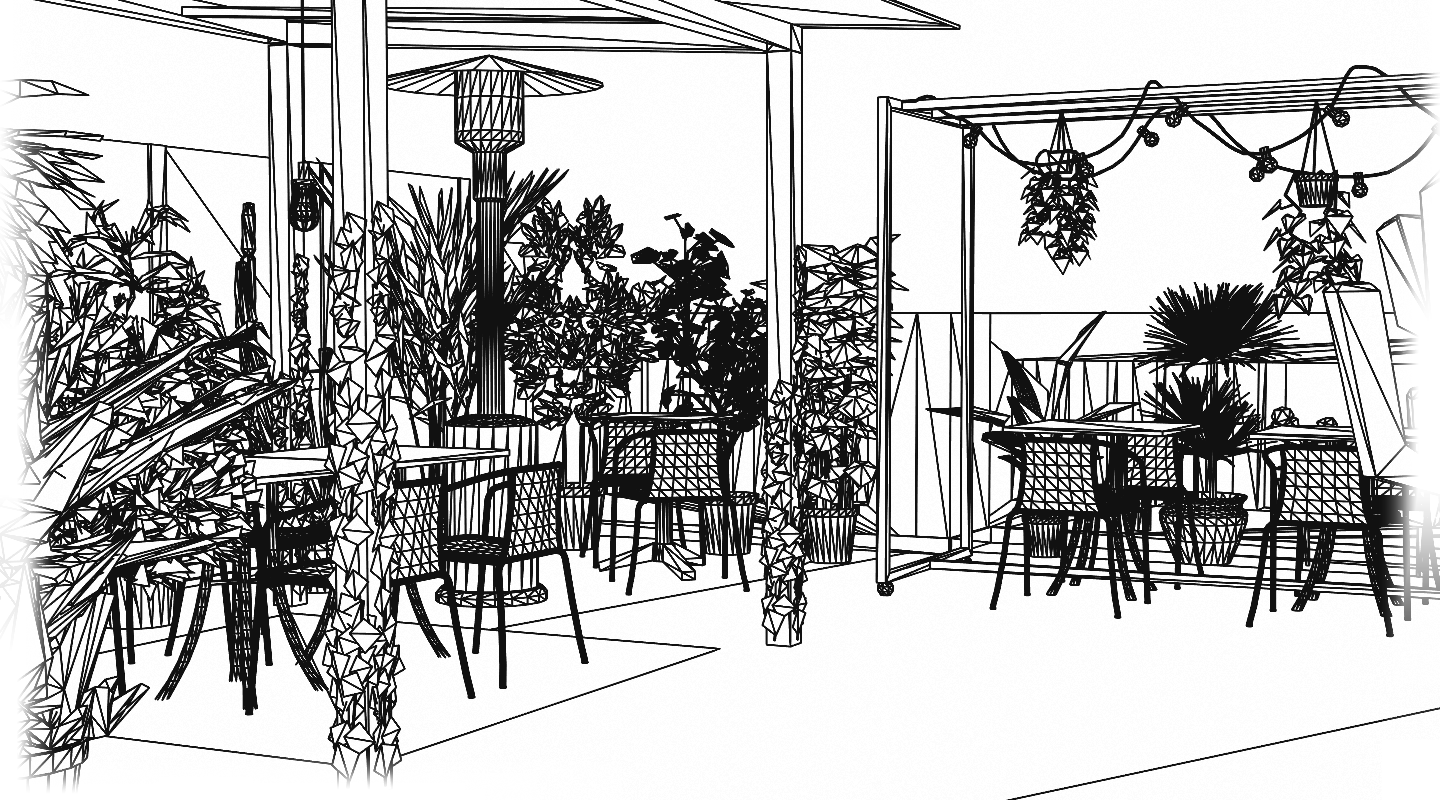
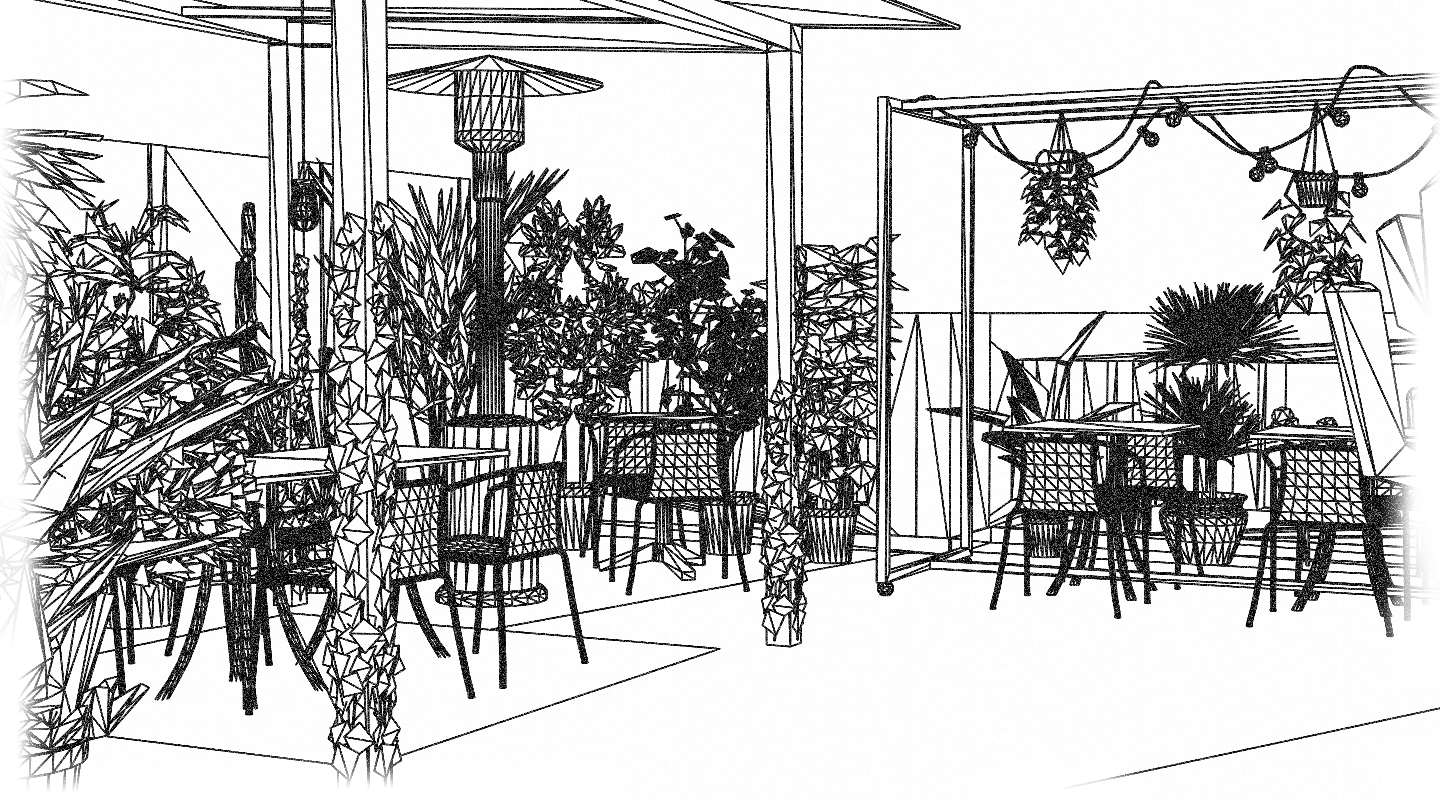
noise scetches, cart cont

diff --git a/src/mainScreens/Carta.jsx b/src/mainScreens/Carta.jsx
@@ -1,23 +1,40 @@
 import { useState, useEffect, useRef } from 'react'
 import { collection, getDocs } from 'firebase/firestore'
 import { db } from '../firebase'
-
-async function fetchMenuCollection(collectionName) {
-    const snapshot = await getDocs(collection(db, collectionName))
-    const plates = snapshot.docs.map(doc => doc.data())
-    plates.forEach((document) => {
-        console.log(document.nombre)
-    })
-}
+import MenuCarousel from '../custom/MenuCarousel'
 
 function Carta({ activateLink }) {
     const mainSection = useRef()
     const scetchSection = useRef()
 
+    const [collectionName, setCollectionName] = useState(
+        'menu/01.platos/platos'
+    )
+    const [activeCategory, setActiveCategory] = useState('platos')
+    const [menuCollection, setMenuCollection] = useState([])
+    const [fetchingMenuCollection, setFetchingMenuCollection] = useState(true)
+    const [vinosVisible, setVinosVisible] = useState(false)
+    const [menuReady, setMenuReady] = useState(false)
+
+    const fetchMenuCollection = async () => {
+        setFetchingMenuCollection(true)
+        try {
+            const snapshot = await getDocs(collection(db, collectionName))
+            const plates = snapshot.docs.map((doc) => doc.data())
+            setMenuCollection(plates)
+        } catch (error) {
+            console.log(error)
+        }
+        setFetchingMenuCollection(false)
+
+        // Temporal
+        menuCollection.forEach((document) => console.log(document.nombre))
+    }
+
     useEffect(() => {
         activateLink(2)
 
-        fetchMenuCollection('menu/061.postres/postres')
+        fetchMenuCollection()
 
         const reveal = function (entries, observer) {
             const [entry] = entries
@@ -45,6 +62,21 @@ function Carta({ activateLink }) {
         )
     }, [])
 
+    const activateCategory = (event) => {
+        const category = event.target.dataset.id
+        if (activateCategory === category) return
+
+        setActiveCategory(category)
+        if (category === 'vinos') {
+            setVinosVisible(true)
+        } else {
+            setVinosVisible(false)
+            const dbPath = event.target.dataset.dbPath
+            setCollectionName(dbPath)
+            fetchMenuCollection()
+        }
+    }
+
     return (
         <div className="main-carta">
             <section
@@ -57,57 +89,95 @@ function Carta({ activateLink }) {
                 <div className="categories-carousel">
                     <div className="menu-categories-container">
                         <div
-                            className="menu-category category active"
+                            className={`menu-category category ${
+                                activeCategory === 'platos' ? 'active' : ''
+                            }`}
+                            data-id="platos"
                             data-db-path="menu/01.platos/platos"
+                            onClick={activateCategory}
                         >
                             Platos
                         </div>
                         <div
-                            className="menu-category category"
+                            className={`menu-category category ${
+                                activeCategory === 'piqueos' ? 'active' : ''
+                            }`}
+                            data-id="piqueos"
                             data-db-path="menu/02.piqueos/piqueos"
+                            onClick={activateCategory}
                         >
                             Piqueos
                         </div>
                         <div
-                            className="menu-category category"
+                            className={`menu-category category ${
+                                activeCategory === 'vinos' ? 'active' : ''
+                            }`}
+                            data-id="vinos"
                             data-db-path="menu/03.vinos/vinos"
+                            onClick={activateCategory}
                         >
                             Vinos
                         </div>
                         <div
-                            className="menu-category category"
+                            className={`menu-category category ${
+                                activeCategory === 'cocteles' ? 'active' : ''
+                            }`}
+                            data-id="cocteles"
                             data-db-path="menu/04.cocteles/cocteles"
+                            onClick={activateCategory}
                         >
                             Cocteles
                         </div>
                         <div
-                            className="menu-category category"
+                            className={`menu-category category ${
+                                activeCategory === 'cervezas' ? 'active' : ''
+                            }`}
+                            data-id="cervezas"
                             data-db-path="menu/05.cervezas/cervezas"
+                            onClick={activateCategory}
                         >
                             Cervezas
                         </div>
                         <div
-                            className="menu-category category"
+                            className={`menu-category category ${
+                                activeCategory === 'bebidas calientes'
+                                    ? 'active'
+                                    : ''
+                            }`}
+                            data-id="bebidas calientes"
                             data-db-path="menu/06.bebidas calientes/bebidas calientes"
+                            onClick={activateCategory}
                         >
                             Bebidas calientes
                         </div>
                         <div
-                            className="menu-category category"
+                            className={`menu-category category ${
+                                activeCategory === 'postres' ? 'active' : ''
+                            }`}
+                            data-id="postres"
                             data-db-path="menu/061.postres/postres"
+                            onClick={activateCategory}
                         >
                             Postres
                         </div>
                         <div
-                            className="menu-category category"
+                            className={`menu-category category ${
+                                activeCategory === 'ofertas' ? 'active' : ''
+                            }`}
+                            data-id="ofertas"
                             data-db-path="menu/07.ofertas/ofertas"
+                            onClick={activateCategory}
                         >
                             Ofertas
                         </div>
                     </div>
                 </div>
 
-                <div className="vinos-container hidden">
+                <div
+                    className={`vinos-container ${
+                        vinosVisible ? 'visible' : 'hidden'
+                    }`}
+                >
                     <div
                         className="vino-category category wine"
                         data-db-path="menu/03.vinos/vinos/Vinos tintos/vinos"
@@ -140,13 +210,31 @@ function Carta({ activateLink }) {
                     </div>
                 </div>
 
-                <div className="carousel-container">
+                <div
+                    className={`carousel-container ${
+                        vinosVisible ? 'translated' : ''
+                    }`}
+                >
                     <img
                         className="carta-load-anim"
                         src="/images/loaders/carta.svg"
+                        style={
+                            fetchingMenuCollection
+                                ? { opacity: '1' }
+                                : { opacity: '0' }
+                        }
                     />
 
-                    <div className="carousel"></div>
+                    <div
+                        className="carousel"
+                        style={
+                            fetchingMenuCollection
+                                ? { opacity: '0' }
+                                : { opacity: '1' }
+                        }
+                    >
+                        {menuReady ? <MenuCarousel setMenuReady={ setMenuReady }/> : null}
+                    </div>
                 </div>
             </section>
             <section
@@ -154,7 +242,7 @@ function Carta({ activateLink }) {
                 className="revealable"
             >
                 <img
-                    id='carta-scetch'
+                    id="carta-scetch"
                     src="/images/scetches/plants.png"
                     style={{
                         marginBottom: '2rem',

diff --git a/src/mainScreens/Home.jsx b/src/mainScreens/Home.jsx
@@ -159,7 +159,7 @@ export default function Home({ activateLink }) {
                     >
                         <img
                             className="centered round-image"
-                            src="images/scetches/cornerScene.png"
+                            src="images/scetches/cornerScene_noise.png"
                             alt="point-one"
                             id="img-point-one"
                         />
@@ -178,7 +178,7 @@ export default function Home({ activateLink }) {
                         reference={point2Ref}
                     >
                         <img
-                            src="images/scetches/barScene.png"
+                            src="images/scetches/barScene_noise.png"
                             alt="point-two"
                             className="round-image centered"
                         />
@@ -193,7 +193,7 @@ export default function Home({ activateLink }) {
                         reference={point3Ref}
                     >
                         <img
-                            src="images/scetches/metalFrameScene.png"
+                            src="images/scetches/metalFrameScene_noise.png"
                             alt="point-three"
                             className="round-image centered"
                         />

diff --git a/src/mainScreens/Contacto.jsx b/src/mainScreens/Contacto.jsx
@@ -177,7 +177,7 @@ function Contacto({ activateLink }) {
                 ref={scetchSection}
             >
                 <img
-                    src="/images/scetches/chairInCorner.png"
+                    src="/images/scetches/chairInCorner_noise.png"
                     style={{
                         width: '300px',
                         height: '265px',

diff --git a/src/mainScreens/Signup.jsx b/src/mainScreens/Signup.jsx
@@ -168,7 +168,7 @@ function Signup({ activateLink }) {
                 ref={scetchSection}
             >
                 <img
-                    src="/images/scetches/hangingChair.png"
+                    src="/images/scetches/hangingChair_noise.png"
                     className="centered"
                     style={{
                         height: '310px',

diff --git a/src/mainScreens/Carreras.jsx b/src/mainScreens/Carreras.jsx
@@ -265,7 +265,7 @@ function Carreras({ activateLink }) {
                 ref={scetchSection}
             >
                 <img
-                    src="/images/scetches/bureau.png"
+                    src="/images/scetches/bureau_noise.png"
                     className="centered"
                     style={{
                         height: '210px',

diff --git a/src/mainScreens/Horario.jsx b/src/mainScreens/Horario.jsx
@@ -79,7 +79,7 @@ function Horario({ activateLink }) {
                 ref={scetchSection}
                 className="revealable"
             >
-                <img src="/images/scetches/chairs.png" />
+                <img src="/images/scetches/chairs_noise.png" />
             </section>
 
             <section

diff --git a/src/scss/_main-home.scss b/src/scss/_main-home.scss
@@ -31,7 +31,7 @@
             }
 
             @include breakpoint-up(laptop) {
-                background-image: url(/images/hero_noise.png);
+                background-image: url(/images/hero.png);
                 background-size:contain;
                 top: auto;
                 bottom: 0;

diff --git a/src/custom/MenuCarousel.jsx b/src/custom/MenuCarousel.jsx
@@ -1,0 +1,11 @@
+import M from "materialize-css"
+
+function MenuCarousel({ setMenuReady }) {
+    return (
+        <div>
+            
+        </div>
+    )
+}
+
+export default MenuCarousel
